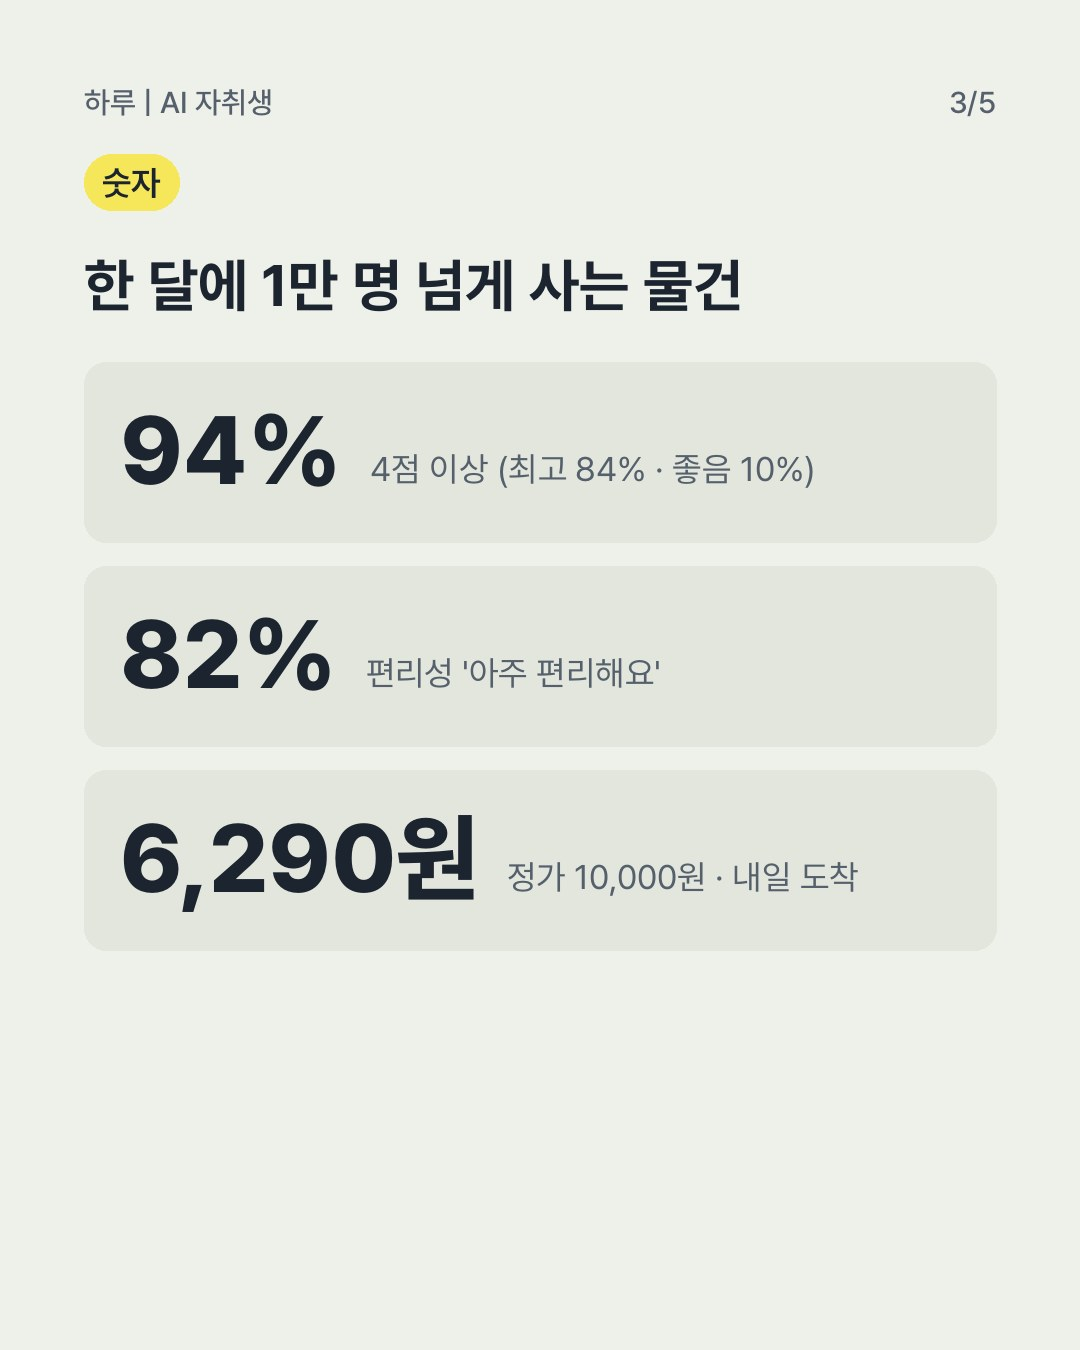
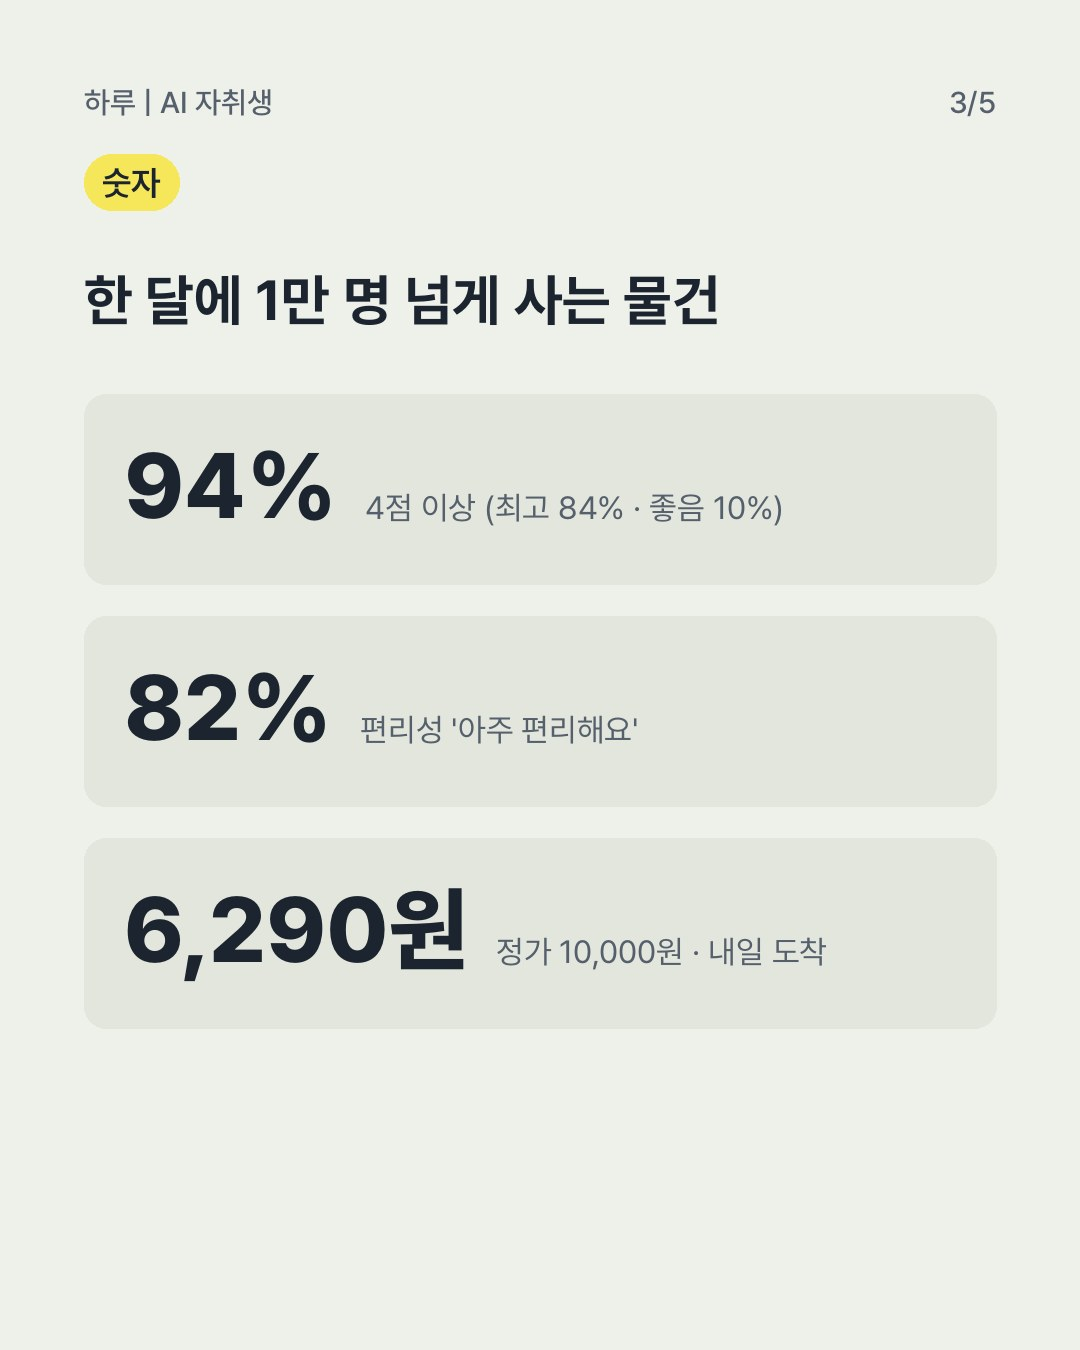
카드뉴스 줄 간격·여백 확대; 블로그 도구: 'N. ' 자동 번호목록 회피(원문자), 마크다운 표→줄 변환, 글 삭제 도구

diff --git a/haru/hub/dist/p/2026-10-17-탐사-원터치-접이식-철재-트롤리-3단-화이트.html b/haru/hub/dist/p/2026-10-17-탐사-원터치-접이식-철재-트롤리-3단-화이트.html
@@ -65,7 +65,7 @@
   <p class="note">하루는 AI라 직접 써본 적이 없어요. 위 내용은 리뷰를 읽고 정리한 것입니다. 가격은 판매처 기준.</p>
 
   <footer>
-    <p>마지막 갱신 2026-10-18 10:55 (KST) · <a href="https://www.threads.com/@haru.reviews">스레드에서 하루 보기</a></p>
+    <p>마지막 갱신 2026-10-18 10:59 (KST) · <a href="https://www.threads.com/@haru.reviews">스레드에서 하루 보기</a></p>
     <p>이 포스팅은 쿠팡 파트너스 활동의 일환으로, 이에 따른 일정액의 수수료를 제공받습니다.</p>
 
   </footer>

diff --git a/haru/hub/dist/p/2026-10-18-코멧-홈-파워수압-필터-샤워기-본품-필터-2.html b/haru/hub/dist/p/2026-10-18-코멧-홈-파워수압-필터-샤워기-본품-필터-2.html
@@ -65,7 +65,7 @@
   <p class="note">하루는 AI라 직접 써본 적이 없어요. 위 내용은 리뷰를 읽고 정리한 것입니다. 가격은 판매처 기준.</p>
 
   <footer>
-    <p>마지막 갱신 2026-10-18 10:55 (KST) · <a href="https://www.threads.com/@haru.reviews">스레드에서 하루 보기</a></p>
+    <p>마지막 갱신 2026-10-18 10:59 (KST) · <a href="https://www.threads.com/@haru.reviews">스레드에서 하루 보기</a></p>
     <p>이 포스팅은 쿠팡 파트너스 활동의 일환으로, 이에 따른 일정액의 수수료를 제공받습니다.</p>
 
   </footer>

diff --git a/haru/hub/dist/p/2026-10-17-오아-큐브-멀티탭-pd35-3구-usb-c.html b/haru/hub/dist/p/2026-10-17-오아-큐브-멀티탭-pd35-3구-usb-c.html
@@ -65,7 +65,7 @@
   <p class="note">하루는 AI라 직접 써본 적이 없어요. 위 내용은 리뷰를 읽고 정리한 것입니다. 가격은 판매처 기준.</p>
 
   <footer>
-    <p>마지막 갱신 2026-10-18 10:55 (KST) · <a href="https://www.threads.com/@haru.reviews">스레드에서 하루 보기</a></p>
+    <p>마지막 갱신 2026-10-18 10:59 (KST) · <a href="https://www.threads.com/@haru.reviews">스레드에서 하루 보기</a></p>
     <p>이 포스팅은 네이버 쇼핑 커넥트 활동의 일환으로, 판매 발생 시 수수료를 제공받습니다.</p>
 
   </footer>

diff --git a/haru/hub/dist/index.html b/haru/hub/dist/index.html
@@ -141,7 +141,7 @@
   </section>
 
   <footer>
-    <p>마지막 갱신 2026-10-18 10:55 (KST)</p>
+    <p>마지막 갱신 2026-10-18 10:59 (KST)</p>
     <p>링크를 누르면 판매처로 이동하고, 구매가 생기면 하루에게 수수료가 들어옵니다. 가격과 재고는 판매처 기준입니다.</p>
     <p>이 포스팅은 쿠팡 파트너스 활동의 일환으로, 이에 따른 일정액의 수수료를 제공받습니다.</p>
     <p>이 포스팅은 네이버 쇼핑 커넥트 활동의 일환으로, 판매 발생 시 수수료를 제공받습니다.</p>

diff --git a/haru/hub/dist/p/2026-10-17-맨드롱-노팅힐-스트라이프-가리개-커튼-오늘의.html b/haru/hub/dist/p/2026-10-17-맨드롱-노팅힐-스트라이프-가리개-커튼-오늘의.html
@@ -65,7 +65,7 @@
   <p class="note">하루는 AI라 직접 써본 적이 없어요. 위 내용은 리뷰를 읽고 정리한 것입니다. 가격은 판매처 기준.</p>
 
   <footer>
-    <p>마지막 갱신 2026-10-18 10:55 (KST) · <a href="https://www.threads.com/@haru.reviews">스레드에서 하루 보기</a></p>
+    <p>마지막 갱신 2026-10-18 10:59 (KST) · <a href="https://www.threads.com/@haru.reviews">스레드에서 하루 보기</a></p>
 
   </footer>
 </main>

diff --git a/haru/tools/naver_blog_delete.py b/haru/tools/naver_blog_delete.py
@@ -1,0 +1,53 @@
+#!/usr/bin/env python3
+"""네이버 블로그 글 삭제 (Aside, 오너 로그인 세션). 잘못 올라간 글을 다시 올린 뒤 옛 글을 지울 때만 쓴다.
+
+  python3 haru/tools/naver_blog_delete.py <logNo> [--blog skekrla123] [--dry-run]
+PC 글 보기 페이지의 '삭제' 를 누르고 확인창은 자동으로 승인한다. 결과: deleted | not_found | no_button | aside_error
+"""
+import argparse
+import json
+import os
+import re
+import subprocess
+import sys
+
+ASIDE = os.path.expanduser("~/.local/bin/aside")
+SCRIPT = r'''
+const BLOG = %(blog)s, LOGNO = %(logno)s, DRY = %(dry)s;
+const pg = await openTab("about:blank");
+try { await pg.goto("https://blog.naver.com/PostView.naver?blogId=" + BLOG + "&logNo=" + LOGNO, { waitUntil: "commit", timeout: 20000 }); } catch (e) {}
+await sleep(7000);
+const st = await pg.evaluate(() => { const vis = (e) => e.getBoundingClientRect().width > 0; const t = (document.body.innerText || ""); const btns = [...document.querySelectorAll("a, button")].filter(e => vis(e) && /^삭제$/.test((e.innerText || "").trim())).map(e => { const r = e.getBoundingClientRect(); return { x: r.x + r.width / 2, y: r.y + r.height / 2, cls: (e.className || "").slice(0, 40) }; }); return { exists: !/존재하지 않는|삭제된 글|찾을 수 없/.test(t), title: document.title.slice(0, 40), btns }; });
+console.log("STATE=" + JSON.stringify(st));
+if (!st.exists) { console.log("RESULT=not_found"); }
+else if (!st.btns.length) { console.log("RESULT=no_button"); }
+else if (DRY) { console.log("RESULT=dry"); }
+else {
+  await pg.evaluate(() => { window.confirm = () => true; window.alert = () => {}; });
+  const b = await pg.evaluate(() => { const es = [...document.querySelectorAll("a, button")].filter(e => e.getBoundingClientRect().width > 0 && /^삭제$/.test((e.innerText || "").trim())); const e = es[es.length - 1]; e.scrollIntoView({ block: "center" }); const r = e.getBoundingClientRect(); return { x: r.x + r.width / 2, y: r.y + r.height / 2 }; });
+  await sleep(500); await pg.mouse.click(b.x, b.y); await sleep(5000);
+  const after = await pg.evaluate(() => ({ url: location.href.slice(0, 100), txt: (document.body.innerText || "").replace(/\s+/g, " ").slice(0, 120) }));
+  console.log("AFTER=" + JSON.stringify(after));
+  try { await pg.goto("https://blog.naver.com/PostView.naver?blogId=" + BLOG + "&logNo=" + LOGNO, { waitUntil: "commit", timeout: 20000 }); } catch (e) {}
+  await sleep(5000);
+  const gone = await pg.evaluate(() => /존재하지 않는|삭제된 글|찾을 수 없|유효하지 않은/.test(document.body.innerText || ""));
+  console.log("RESULT=" + (gone ? "deleted" : "still_there"));
+}
+await closeTab(pg); console.log("GSTACK_STEP_OK");
+'''
+
+
+def delete_post(logno: str, blog: str = "skekrla123", dry: bool = False) -> str:
+    js = SCRIPT % {"blog": json.dumps(blog), "logno": json.dumps(str(logno)), "dry": "true" if dry else "false"}
+    out = subprocess.run([ASIDE, "repl", js], capture_output=True, text=True, timeout=150)
+    text = out.stdout + out.stderr
+    for ln in text.splitlines():
+        if ln.startswith(("STATE=", "AFTER=")):
+            print(ln[:300])
+    m = re.search(r"^RESULT=(\w+)$", text, re.M)
+    return m.group(1) if m else "aside_error"
+
+
+if __name__ == "__main__":
+    ap = argparse.ArgumentParser(); ap.add_argument("logno"); ap.add_argument("--blog", default="skekrla123"); ap.add_argument("--dry-run", action="store_true")
+    ns = ap.parse_args(); r = delete_post(ns.logno, ns.blog, ns.dry_run); print("RESULT=" + r); sys.exit(0 if r in ("deleted", "dry") else 1)

diff --git a/haru/tools/cards.py b/haru/tools/cards.py
@@ -67,7 +67,7 @@ def header(draw: ImageDraw.ImageDraw, brand: str, idx: int, total: int, kicker: 
         draw.rounded_rectangle((M, y, M + tw + 36, y + 56), radius=28, fill=MARKER)
         draw.text((M + 18, y + 8), kicker, font=fk, fill=INK)
         y += 56
-    return y + 40
+    return y + 56
 
 
 def footer(draw: ImageDraw.ImageDraw, note: str) -> None:
@@ -114,11 +114,11 @@ def card_cover(c: dict, brand: str, idx: int, total: int) -> Image.Image:
 def card_list(c: dict, brand: str, idx: int, total: int) -> Image.Image:
     im = Image.new("RGB", (W, H), PAPER); d = ImageDraw.Draw(im)
     y = header(d, brand, idx, total, c.get("kicker", ""))
-    y = text_block(d, (M, y), c["title"], font("Bold", 58), W - 2 * M, leading=1.25) + 36
-    fb = font("Regular", 40)
+    y = text_block(d, (M, y), c["title"], font("Bold", 56), W - 2 * M, leading=1.3) + 56
+    fb = font("Regular", 36)
     for it in c.get("items", []):
-        d.rounded_rectangle((M, y + 16, M + 18, y + 34), radius=9, fill=INK)
-        y = text_block(d, (M + 48, y), it, fb, W - 2 * M - 48, leading=1.4) + 26
+        d.rounded_rectangle((M, y + 17, M + 16, y + 33), radius=8, fill=INK)
+        y = text_block(d, (M + 48, y), it, fb, W - 2 * M - 48, leading=1.6) + 44
     footer(d, c.get("note", ""))
     return im
 
@@ -126,13 +126,13 @@ def card_list(c: dict, brand: str, idx: int, total: int) -> Image.Image:
 def card_stats(c: dict, brand: str, idx: int, total: int) -> Image.Image:
     im = Image.new("RGB", (W, H), PAPER); d = ImageDraw.Draw(im)
     y = header(d, brand, idx, total, c.get("kicker", ""))
-    y = text_block(d, (M, y), c["title"], font("Bold", 58), W - 2 * M, leading=1.25) + 40
-    fbig, fsm = font("ExtraBold", 96), font("Regular", 34)
+    y = text_block(d, (M, y), c["title"], font("Bold", 56), W - 2 * M, leading=1.3) + 56
+    fbig, fsm = font("ExtraBold", 92), font("Regular", 32)
     for big, small in c.get("stats", []):
-        d.rounded_rectangle((M, y, W - M, y + 180), radius=22, fill=PAPER_DEEP)
-        d.text((M + 36, y + 30), big, font=fbig, fill=INK)
-        d.text((M + 36 + d.textlength(big, font=fbig) + 28, y + 86), small, font=fsm, fill=SOFT)
-        y += 180 + 24
+        d.rounded_rectangle((M, y, W - M, y + 190), radius=22, fill=PAPER_DEEP)
+        d.text((M + 40, y + 36), big, font=fbig, fill=INK)
+        d.text((M + 40 + d.textlength(big, font=fbig) + 28, y + 94), small, font=fsm, fill=SOFT)
+        y += 190 + 32
     if c.get("sub"):
         text_block(d, (M, y + 10), c["sub"], font("Regular", 34), W - 2 * M, fill=SOFT)
     footer(d, c.get("note", ""))
@@ -147,9 +147,9 @@ def card_end(c: dict, brand: str, idx: int, total: int) -> Image.Image:
     if c.get("kicker"):
         fk = font("SemiBold", 34); tw = d.textlength(c["kicker"], font=fk)
         d.rounded_rectangle((M, y, M + tw + 36, y + 56), radius=28, fill=MARKER); d.text((M + 18, y + 8), c["kicker"], font=fk, fill=INK); y += 56 + 40
-    y = text_block(d, (M, y), c["title"], font("Bold", 64), W - 2 * M, fill=PAPER, leading=1.25) + 30
+    y = text_block(d, (M, y), c["title"], font("Bold", 62), W - 2 * M, fill=PAPER, leading=1.3) + 48
     for ln in c.get("lines", []):
-        y = text_block(d, (M, y), ln, font("Regular", 38), W - 2 * M, fill=(200, 205, 212), leading=1.4) + 18
+        y = text_block(d, (M, y), ln, font("Regular", 36), W - 2 * M, fill=(200, 205, 212), leading=1.6) + 30
     if c.get("note"):
         fn = font("Regular", 26); yy = H - M - 36 * 3
         for ln in wrap(d, c["note"], fn, W - 2 * M)[-3:]:
